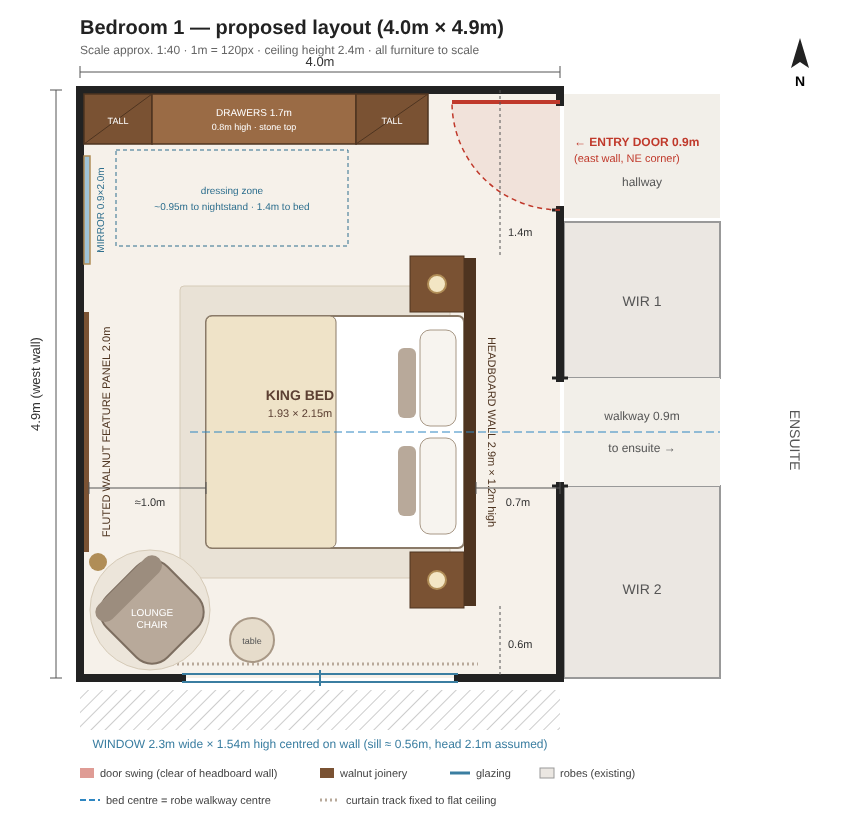
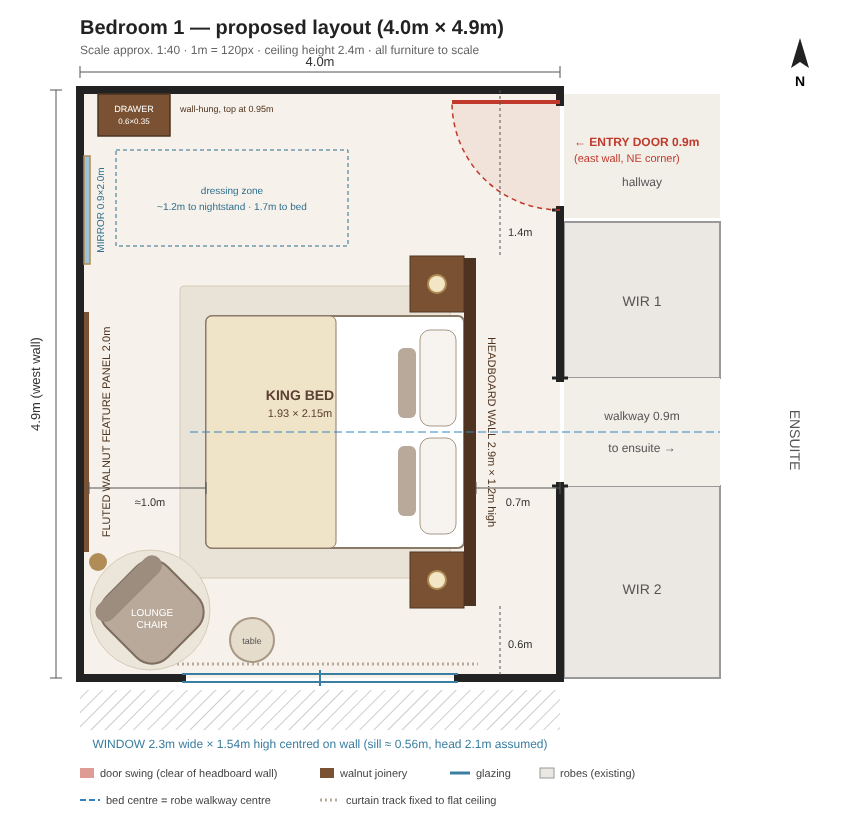
Replace storage wall with one small floating drawer by the mirror
Claude-Session: https://claude.ai/code/session_01P4LkCESWoGV8P5QgBbWSmy

Changed region(s): [[0.0907, 0.0915, 0.514, 0.1829], [0.1814, 0.2439, 0.3628, 0.2744]]

diff --git a/renders/bedroom-1-3d.html b/renders/bedroom-1-3d.html
@@ -161,30 +161,20 @@ box(1.33,1.5,0.54,0.57,4.48,4.66,mat('#c9b48e',0.8)); cyl(1.52,0.58,4.62,0.04,0.
 cyl(0.15,0.75,3.95,0.012,0.012,1.5,brass,8); cyl(0.15,0.01,3.95,0.12,0.14,0.02,brass);
 cyl(0.15,1.5,3.95,0.12,0.18,0.22,mat('#f3ecdf',0.9,0,{side:THREE.DoubleSide}),32);
 
-// ---------- Dressing zone: north wall storage + full-length mirror on west wall ----------
-// North wall joinery, 0.45m deep, x 0-2.9 (stops clear of the open door leaf at x 3.1)
-function fluteFront(x0,x1,y0,y1,zFace){ for(let x=x0+0.02;x<x1-0.02;x+=0.045){ const f=cyl(x+0.02,(y0+y1)/2,zFace+0.012,0.018,0.018,y1-y0,walnut,10); } }
-// tall cabinets (floor to ceiling) at each end, fluted doors
-for(const [x0,x1] of [[0,0.6],[2.3,2.9]]){
-  box(x0,x1,0,CH,0,0.45,walnut);
-  fluteFront(x0,x1,0.06,CH-0.04,0.45);
-  box((x0+x1)/2-0.006,(x0+x1)/2+0.006,0.06,CH-0.04,0.45,0.475,mat('#2e1d12',0.7),false); // door split
-  box(x0===0? x1-0.06:x0+0.04, x0===0? x1-0.04:x0+0.06, 0.9,1.3,0.475,0.49,brass);       // long brass pull
-}
-// low drawer unit / dressing bench between them
-box(0.6,2.3,0.1,0.8,0,0.45,walnut);
-box(0.62,2.28,0,0.1,0.02,0.4,mat('#2e1d12',0.7),false);                                // recessed plinth
-for(let r=0;r<2;r++) for(let c=0;c<2;c++){ const x0=0.62+c*0.84, y0=0.12+r*0.34;
-  box(x0,x0+0.82,y0,y0+0.32,0.45,0.455,walnut); box(x0+0.33,x0+0.49,y0+0.25,y0+0.27,0.455,0.47,brass); }
-box(0.6,2.3,0.8,0.83,0,0.47,travertine);
-// styling on drawer unit
-box(0.85,1.15,0.83,0.845,0.15,0.35,brass); cyl(0.93,0.9,0.25,0.03,0.03,0.12,mat('#e9efe9',0.1,0,{transparent:true,opacity:0.6})); cyl(1.05,0.88,0.24,0.025,0.025,0.09,mat('#d8c9a6',0.3,0.3));
-cyl(1.95,0.95,0.22,0.07,0.05,0.24,mat('#efe9df',0.5)); cyl(1.95,1.15,0.22,0.003,0.003,0.2,mat('#6b7f58',0.8),6);
-box(1.45,1.75,0.83,0.89,0.12,0.34,mat('#d9cfc0',0.8));
+// ---------- Dressing spot: small floating drawer on north wall + full-length mirror on west wall ----------
+// small wall-hung drawer in the north-west corner, 0.6m wide x 0.35m deep x 0.18m high, top at 0.95m
+box(0.15,0.75,0.77,0.92,0,0.35,walnut);
+box(0.16,0.74,0.785,0.905,0.35,0.355,walnut);
+box(0.37,0.53,0.84,0.855,0.355,0.37,brass);                           // brass pull
+box(0.15,0.75,0.92,0.95,0,0.36,travertine);                           // stone top
+box(0.15,0.75,0.765,0.77,0.02,0.33,mat('#fff2d4',0.5,0,{emissive:'#ffcf8a',emissiveIntensity:0.4}),false,false); // soft under-glow
+// styling on top: small brass tray, perfume, bud vase
+box(0.25,0.47,0.95,0.962,0.08,0.24,brass); cyl(0.32,1.0,0.16,0.025,0.025,0.08,mat('#e9efe9',0.1,0,{transparent:true,opacity:0.6})); cyl(0.42,0.99,0.15,0.02,0.02,0.06,mat('#d8c9a6',0.3,0.3));
+cyl(0.62,1.02,0.17,0.04,0.03,0.14,mat('#efe9df',0.5)); cyl(0.62,1.14,0.17,0.003,0.003,0.12,mat('#6b7f58',0.8),6);
 // full-length mirror on west wall, north end: 0.9m wide x 2.0m high, slim brass frame
 box(0,0.035,0.15,2.15,0.55,1.45,brass);
 const cubeRT=new THREE.WebGLCubeRenderTarget(512); const cubeCam=new THREE.CubeCamera(0.05,20,cubeRT);
-const mirrorM=mat('#ffffff',0.02,1.0,{envMap:cubeRT.texture});
+const mirrorM=mat('#c9d2d4',0.03,1.0,{envMap:cubeRT.texture});
 const mirror=box(0.035,0.045,0.17,2.13,0.57,1.43,mirrorM,false,false);
 
 // ---------- Lighting: morning sun through south window ----------
@@ -198,7 +188,7 @@ const win=new THREE.PointLight('#fff4e2',4,9,1.6); win.position.set(2,1.4,RL-0.6
 const fill=new THREE.PointLight('#fff1dc',1.8,10,1.6); fill.position.set(2.0,1.7,2.0); scene.add(fill);
 const fill2=new THREE.PointLight('#ffe9cc',1.2,8,1.8); fill2.position.set(0.8,2.1,1.0); scene.add(fill2);
 
-mirror.visible=false; cubeCam.position.set(1.6,1.3,1.0); scene.add(cubeCam); cubeCam.update(renderer,scene); mirror.visible=true;
+mirror.visible=false; cubeCam.position.set(0.9,1.3,1.0); scene.add(cubeCam); cubeCam.update(renderer,scene); mirror.visible=true;
 // ---------- Camera ----------
 const cam=new THREE.PerspectiveCamera(60,W/H,0.05,50);
 if(VIEW==='corner'){ cam.position.set(3.0,1.6,0.6); cam.fov=68; cam.updateProjectionMatrix(); cam.lookAt(0.9,0.85,4.1); }
